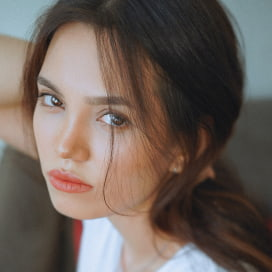
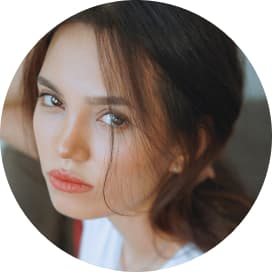
перезалила фото, додала main

diff --git a/src/index.html b/src/index.html
@@ -19,11 +19,13 @@
     <!-- Так добавляются фрагменты в главные HTML-файлы страниц. -->
     <include src="./partials/header.html"></include>
     <include src="./partials/menu.html"></include>
-    <include src="./partials/about.html"></include>
-    <include src="./partials/program.html"></include>
-    <include src="./partials/reviews.html"></include>
-    <include src="./partials/registration.html"></include>
-    <include src="./partials/contact.html"></include>
+    <main>
+      <include src="./partials/about.html"></include>
+      <include src="./partials/program.html"></include>
+      <include src="./partials/reviews.html"></include>
+      <include src="./partials/registration.html"></include>
+      <include src="./partials/contact.html"></include>
+    </main>
     <include src="./partials/footer.html"></include>
     
     <!-- Скрипт идёт последним в разметке. В нём уже подключен главный SASS-файл. -->
